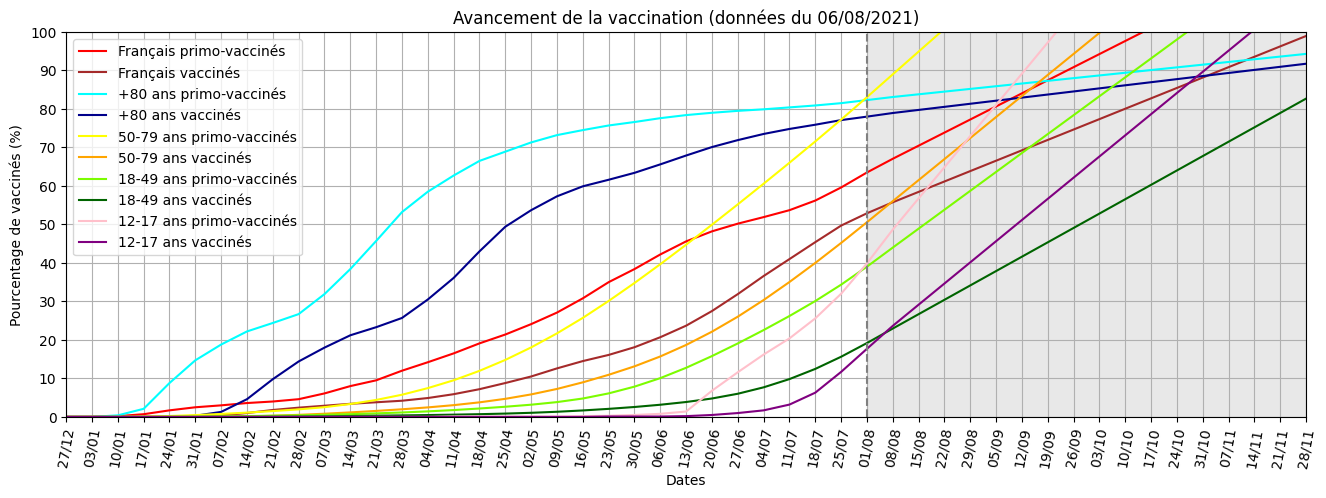
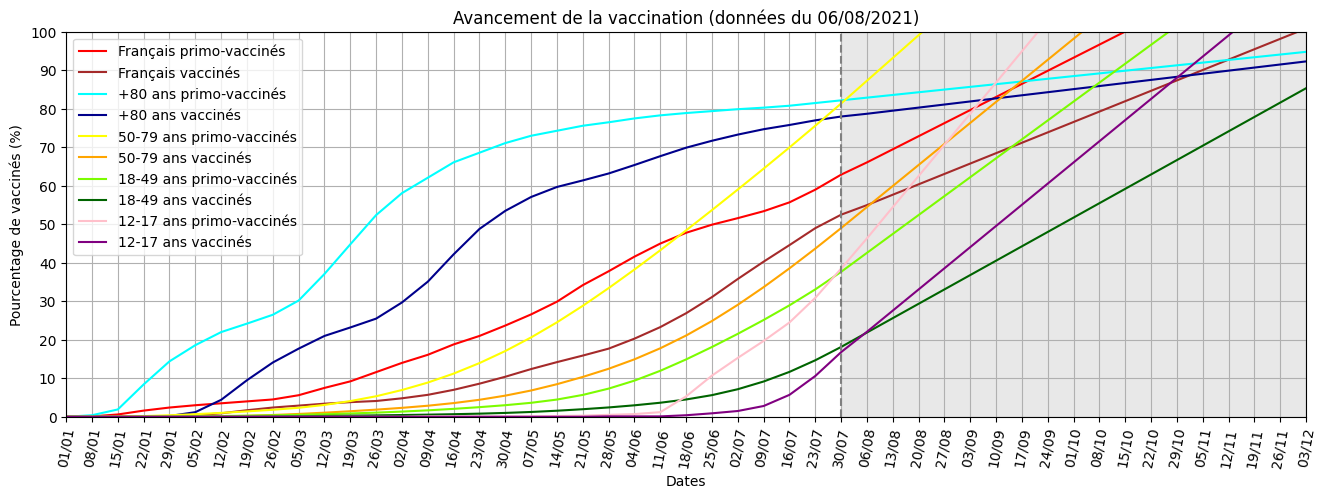
Limite de début fixé le 1er janvier

diff --git a/main.py b/main.py
@@ -7,7 +7,7 @@ import numpy as np
 nom_fichier = "vacsi-a-fra-2021-08-06-20h05.csv"                                #Nom du fichier de données à traiter
 
 #Paramètres du graphique
-limite_date_debut = 0                                                           #Indique la première date des données (0 pour conserver la liste)
+limite_date_debut = "2021-01-01"                                                #Indique la première date des données (0 pour conserver la liste)
 limite_date_fin = 0                                                             #Exclure les données à partir d'une certaine date (0 pour conserver la liste)
 limite_nombre_jour = 0                                                          #Indique le nombre de dates à inscrire sur l'axe des abscisses (0 ou 1 conserve la liste)
 limite_ecart_jour = 7                                                           #Espace de n jours les dates
@@ -152,7 +152,8 @@ position_date_limite = len(liste_dates)-1                                       
 #Tant que la proportion de vaccinés n'est pas de 100%, étendre le graphique
 coeff = (proportion_vaccines[-1]-proportion_vaccines[-1-nb_jour_prediction])/nb_jour_prediction
 i = 0
-while i <= int((100-proportion_vaccines[-1])/coeff)+1 or len(liste_dates)%limite_ecart_jour !=0:
+#!!! Erreur avec limite_ecart_jour = 1
+while i <= int((100-proportion_vaccines[-1])/coeff)+1 or (len(liste_dates)-1)%limite_ecart_jour != 0:
     date = date[0:8] + str(int(date[8:])+1)
     if len(date[8:]) == 1: date = date[0:8] + "0" + date[-1] 
     if date[5:7] == "01" and date[8:10] == "32": date = date[0:5] + "02-01"
@@ -210,4 +211,5 @@ plt.title(f"Avancement de la vaccination (données du {nom_fichier[20:22]}/{nom_
 plt.xlabel("Dates")
 plt.ylabel("Pourcentage de vaccinés (%)")
 
-plt.savefig(f"Objectifs Vaccination {nom_fichier[12:22]}.png", bbox_inches = 'tight')         #Sauvegarde l'image avec la date des données et supprime et les marges exterieures
+#Sauvegarde l'image avec la date des données et supprime et les marges exterieures
+plt.savefig(f"Objectifs Vaccination {nom_fichier[12:22]}.png", bbox_inches = 'tight')
